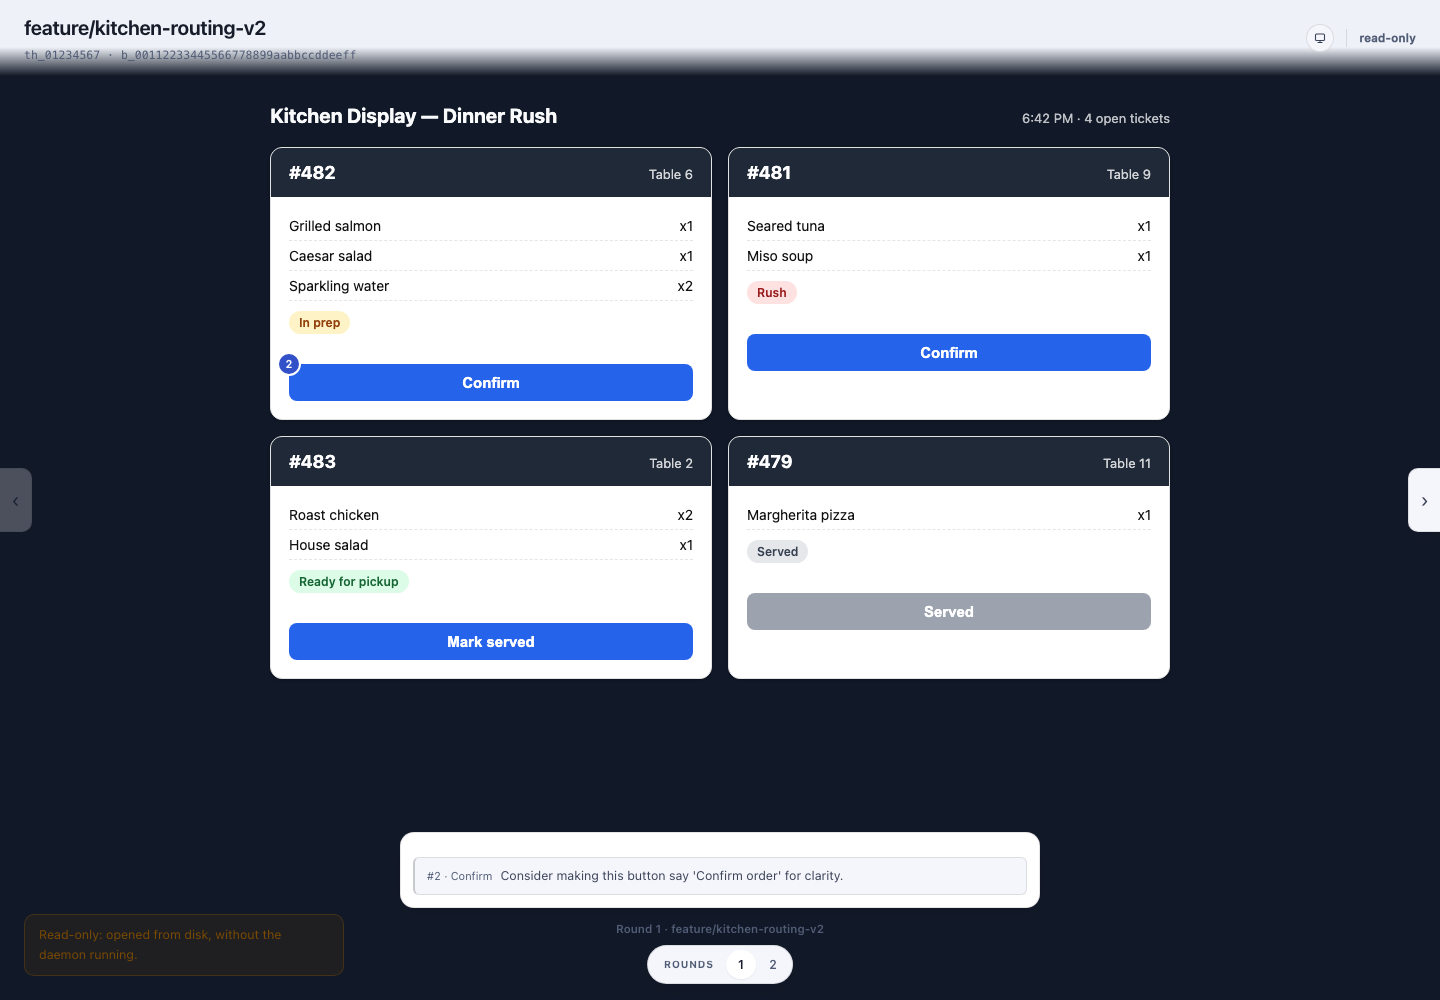
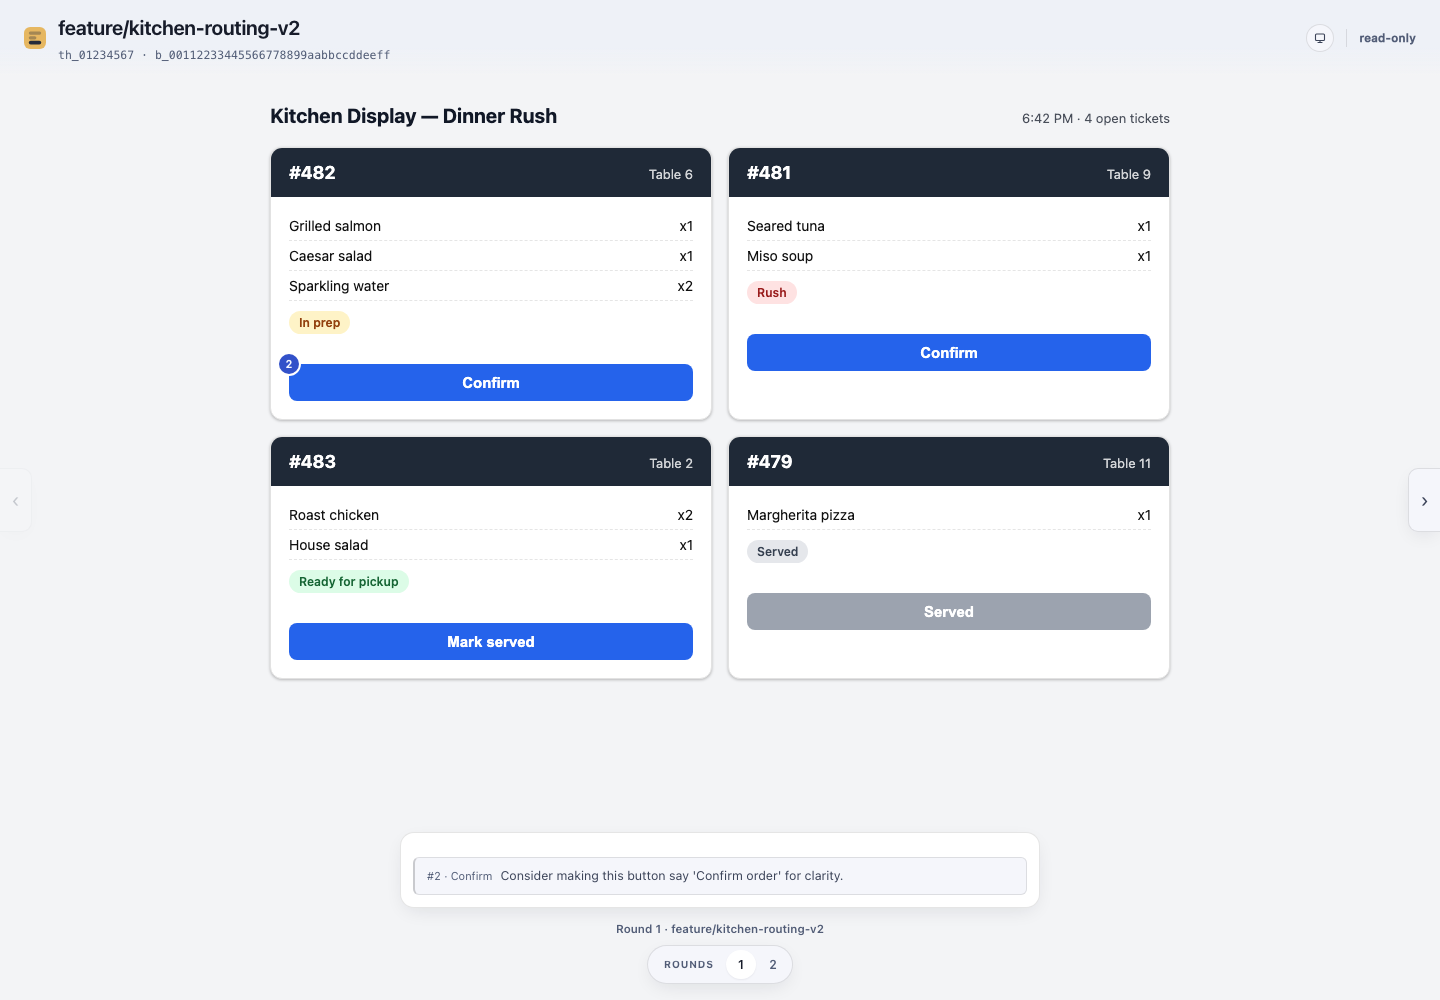
The README screenshots shoot a light mock over local http
Swept from a parallel session per the reviewer: the kitchen-board mock goes
light so a full-viewport page board reads as the product under light chrome,
screenshot.mjs serves over local http instead of file:// so the readonly skin
never leaks into the images, and the rendered sample artifacts are rebuilt
against current src (new ui bundle hash).

diff --git a/examples/sample-board.html b/examples/sample-board.html
@@ -165,9 +165,9 @@
 <section class="block html-block" data-block-id="h1" data-block-kind="html">
   <div class="stage-wrap">
     <iframe class="html-stage" sandbox="allow-scripts" srcdoc="&lt;style&gt;html,body{margin:0;padding:0}&lt;/style&gt;&lt;style&gt;
-  body { margin: 0; padding: 104px 24px 32px; font-family: system-ui, sans-serif; background: #111827; }
+  body { margin: 0; padding: 104px 24px 32px; font-family: system-ui, sans-serif; background: #f3f4f6; }
   .kd-board { max-width: 900px; margin: 0 auto; }
-  .kd-head { display: flex; justify-content: space-between; align-items: baseline; margin-bottom: 20px; color: #f9fafb; }
+  .kd-head { display: flex; justify-content: space-between; align-items: baseline; margin-bottom: 20px; color: #111827; }
   .kd-head h1 { font-size: 20px; margin: 0; font-weight: 700; }
   .kd-head .clock { font-size: 13px; opacity: .75; font-variant-numeric: tabular-nums; }
   .kd-grid { display: grid; grid-template-columns: repeat(2, 1fr); gap: 16px; }
@@ -3233,7 +3233,7 @@
     <button type="button" class="btn-send" id="send-btn" disabled>Send</button>
   </div>
 </div>
[1 lines of base64/hex data omitted]
-<script defer src="ui-05448a33725c78f9.js"></script>
[1 lines of base64/hex data omitted]
+<script defer src="ui-fa1103fd44fa404e.js"></script>
 </body>
 </html>

diff --git a/examples/ui-fa1103fd44fa404e.js b/examples/ui-fa1103fd44fa404e.js
@@ -878,6 +878,20 @@
   // max-height is a backstop only: THIS clamp is what actually stops a hostile
   // report, since it runs before the value ever touches the frame's inline style.
   var STAGE_HEIGHT_CAP = 600;
+  // The two numbers that stop a stage holding the wheel hostage
+  // (forwardStageWheel). TRAVEL_CAP bounds how much hidden content the page
+  // will ever believe in: reported height feeds scroll travel through this
+  // clamp, so even a stage that honors every forwarded notch in its reports
+  // runs out of believed travel -- fifty capped frames of mock is past any
+  // legitimate variant. WHEEL_SLACK is how far the stage's reported position
+  // may lag the pixels the page has actually forwarded before the page takes
+  // the wheel back: wide enough for the one-message report lag (and a
+  // two-notch lag in PAGES mode, one notch = the cap), narrow enough that a
+  // frozen or under-honoring report releases within a dozen ordinary notches.
+  // Together they bound total capture at TRAVEL_CAP + WHEEL_SLACK pixels no
+  // matter what the stage reports.
+  var STAGE_TRAVEL_CAP = 30000;
+  var STAGE_WHEEL_SLACK = 2 * STAGE_HEIGHT_CAP;
   // The floor beside that cap: a stage that sizes itself from the
   // viewport rather than from its own content can report a height that
   // measures whatever sliver of chrome happened to be visible -- a few
@@ -1227,11 +1241,17 @@
   function forwardStageWheel(card, ev) {
     var frame = card.querySelector('.html-stage');
     if (!frame || !isWiredStage(frame)) return;
+    // A trackpad pinch arrives as a wheel event with ctrlKey set (the lens
+    // handler documents the same fact). It is a zoom gesture, not a scroll,
+    // and it is never the stage's -- same rule in both wheel handlers.
+    if (ev.ctrlKey) return;
     // How far this mock can still travel: what it reported as its own content
     // height, less the frame the cap clipped it to. Zero or less means nothing
     // is hidden -- the ordinary case, and it must stay the cheap one: the page
-    // keeps the gesture untouched.
-    var travel = (frame.__cbStageContentH || 0) - STAGE_HEIGHT_CAP;
+    // keeps the gesture untouched. The report passes through STAGE_TRAVEL_CAP
+    // because it is the stage's own claim: uncapped, an absurd height is an
+    // unbounded license to consume notches.
+    var travel = Math.min(frame.__cbStageContentH || 0, STAGE_TRAVEL_CAP) - STAGE_HEIGHT_CAP;
     if (travel <= 0) return;
     var delta = wheelPixels(ev);
     if (typeof delta !== 'number' || !isFinite(delta) || delta === 0) return;
@@ -1244,7 +1264,25 @@
     var top = typeof frame.__cbStageTop === 'number' ? frame.__cbStageTop : 0;
     if (delta < 0 && top <= 0) return;
     if (delta > 0 && top >= travel) return;
+    // The end checks above trust the stage's report; this one does not. 'fwd'
+    // is the page's own ledger of net pixels already forwarded, and a notch is
+    // consumed only while the reported position tracks it within
+    // STAGE_WHEEL_SLACK. A stage whose report freezes (or advances less than
+    // the pixels it was given) drifts past the slack and the wheel is the
+    // page's again, in whichever direction the report stopped honoring; an
+    // honest stage never drifts, because its browser scrolls by exactly what
+    // was forwarded and reports where it landed.
+    // ponytail: a stage that scrolls ITSELF far from the ledger (script-driven
+    // autoscroll, no notches forwarded) forfeits the in-place wheel for the
+    // return direction -- the ledger only moves on forwarded notches, so the
+    // gap never closes. The upgrade path is wall-clock-rate-limited ledger
+    // convergence toward reports; message-rate-limited would just hand the
+    // stage the pen back.
+    var fwd = frame.__cbStageFwd || 0;
+    if (delta > 0 && fwd - top > STAGE_WHEEL_SLACK) return;
+    if (delta < 0 && top - fwd > STAGE_WHEEL_SLACK) return;
     ev.preventDefault();
+    frame.__cbStageFwd = Math.max(0, Math.min(travel, fwd + delta));
     postToStage(frame, { type: 'scrollBy', delta: delta });
   }
 
